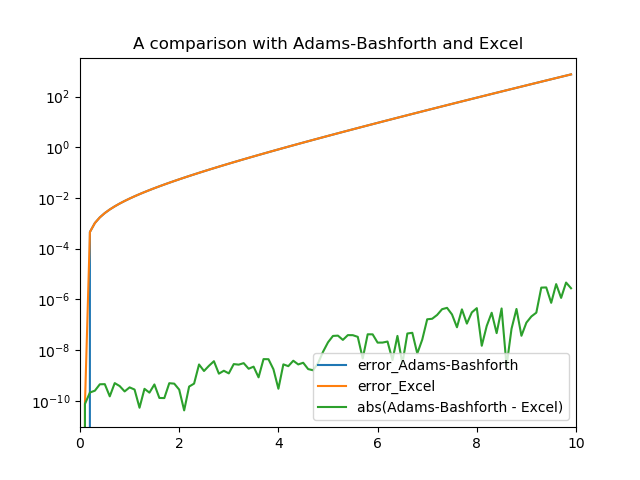
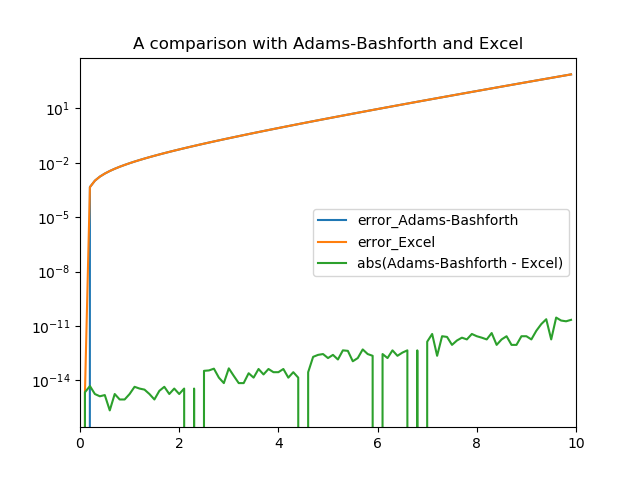
modify lecture3 coding

diff --git a/src/lecture3.py b/src/lecture3.py
@@ -106,7 +106,7 @@ if __name__ == '__main__':
     ax.plot(t[:-1], np.abs(f_exact[:-1] - excel[:, 2]), label='error_Excel')
     ax.plot(t[:-1], np.abs(g_approx[:-1] - excel[:, 2]), label='abs(Adams-Bashforth - Excel)')
     plt.title("A comparison with Adams-Bashforth and Excel")
-    plt.legend(loc='lower right')
+    plt.legend(loc='right')
     plt.xlim(np.min(t), np.max(t))
     plt.yscale("log")
     # plt.show()
